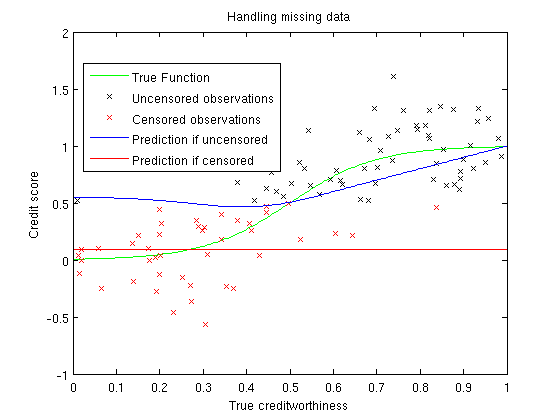
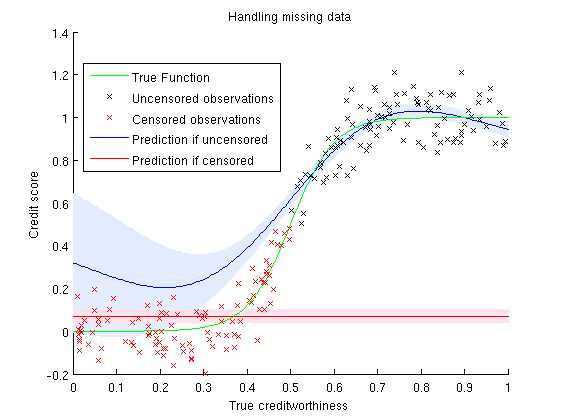
Polished demo

diff --git a/source/missing_data_demo.m b/source/missing_data_demo.m
@@ -18,20 +18,20 @@ addpath(genpath('gpml'))
 
 
 % True function:
-truefunc = @(x) 1./(1+exp(-(x - 0.5).*10));
+truefunc = @(x) 1./(1+exp(-(x - 0.5).*20));
 censoring = @(y) y < 0.5;
-noise_variance = 0.1;
+true_noise_variance = 0.01;
 
 
 % Generate the population
-N = 100;
-x = rand(N,1);   % x has to be bounded between 0 and 1.
+N = 200;
+orig_x = rand(N,1);   % x has to be bounded between 0 and 1.
 
 % Create some data from the true model.
-y = truefunc(x) + randn(N,1) .* sqrt(noise_variance);
+y = truefunc(orig_x) + randn(N,1) .* sqrt(true_noise_variance);
 censored_ixs = censoring(y);
-censored_scores = y;
-censored_scores(censored_ixs) = NaN;
+obs_x = orig_x;
+obs_x(censored_ixs) = NaN;
 
 n_xstar = 200;
 xstar = linspace( 0, 1, n_xstar )';
@@ -40,7 +40,8 @@ xstar_censored = NaN(size(xstar));
 
 % Set up the conditional model.
 % kernel parameters
-omega = 10;  rho = 0.2;  sf2 = 1;
+omega = 1;  rho = 0.1;  sf2 = 1;
+noise_variance = 0.1;
 
 covfunc = @covCond;
 likfunc = @likGauss;
@@ -50,22 +51,39 @@ hyp_cond.lik = log(noise_variance);
 hyp_cond.cov = [log(omega);log(rho);log(sf2)];
 hyp_cond.mean = mean(y);
 
-%hyp = minimize(hyp, @gp, -100, @infExact, [], covfunc, likfunc, X1, Y1(:, n));
+hyp_opt = minimize(hyp_cond, @gp, -100, @infExact, meanfunc, covfunc, likfunc, obs_x, y);
+
+estimated_kernel_params = exp(hyp_opt.cov)
+estimated_noise = exp(hyp_opt.lik)
+estimated_mean = exp(hyp_opt.mean)
+
 
 % Predict uncensored
-[m s2] = gp(hyp_cond, @infExact, meanfunc, covfunc, likfunc, censored_scores, y, xstar);
+[m, s2] = gp(hyp_opt, @infExact, meanfunc, covfunc, likfunc, obs_x, y, xstar);
 % Predict censored
-[m_c s2_c] = gp(hyp_cond, @infExact, meanfunc, covfunc, likfunc, censored_scores, y, xstar_censored);
+[m_c s2_c] = gp(hyp_opt, @infExact, meanfunc, covfunc, likfunc, obs_x, y, xstar_censored);
 
 
+% Plot results.
+light_blue = [227 237 255]./255;
+light_red = [255 227 237]./255;
+opacity = 1;
+figure(1); clf; 
 
-figure(1);
-plot( xstar, truefunc(xstar), 'g-' ); hold on;
-plot( x, y, 'kx');
-plot( x(censored_ixs), y(censored_ixs), 'rx');
-plot( xstar, m, 'b-' );
-plot( xstar, m_c, 'r-' );
-legend({'True Function', 'Uncensored observations', 'Censored observations', 'Prediction if uncensored', 'Prediction if censored'}, ...
+% Predictions if uncensored
+jbfill( xstar', m' + 2.*s2', m' - 2.*s2', light_blue, 'none', 1, opacity); hold on;
+h_pnc = plot( xstar, m, 'b-' ); hold on;
+
+% Predictions if censored
+jbfill( xstar', m_c' + 2.*s2_c', m_c' - 2.*s2_c', light_red, 'none', 1, opacity); hold on;
+h_pc = plot( xstar, m_c, 'r-' ); hold on;
+
+h_tf = plot( xstar, truefunc(xstar), 'g-' ); 
+h_uo = plot( orig_x, y, 'kx');
+h_co = plot( orig_x(censored_ixs), y(censored_ixs), 'rx');
+
+
+legend([h_tf h_uo h_co h_pnc h_pc], {'True Function', 'Uncensored observations', 'Censored observations', 'Prediction if uncensored', 'Prediction if censored'}, ...
     'Location', 'Best');
 set(gcf, 'color', 'white');
 xlabel('True creditworthiness');

diff --git a/source/utils/jbfill.m b/source/utils/jbfill.m
@@ -1,0 +1,44 @@
+function[fillhandle,msg]=jbfill(xpoints,upper,lower,color,edge,add,transparency)
+%USAGE: [fillhandle,msg]=jbfill(xpoints,upper,lower,color,edge,add,transparency)
+%This function will fill a region with a color between the two vectors provided
+%using the Matlab fill command.
+%
+%fillhandle is the returned handle to the filled region in the plot.
+%xpoints= The horizontal data points (ie frequencies). Note length(Upper)
+%         must equal Length(lower)and must equal length(xpoints)!
+%upper = the upper curve values (data can be less than lower)
+%lower = the lower curve values (data can be more than upper)
+%color = the color of the filled area 
+%edge  = the color around the edge of the filled area
+%add   = a flag to add to the current plot or make a new one.
+%transparency is a value ranging from 1 for opaque to 0 for invisible for
+%the filled color only.
+%
+%John A. Bockstege November 2006;
+%Example:
+%     a=rand(1,20);%Vector of random data
+%     b=a+2*rand(1,20);%2nd vector of data points;
+%     x=1:20;%horizontal vector
+%     [ph,msg]=jbfill(x,a,b,rand(1,3),rand(1,3),0,rand(1,1))
+%     grid on
+%     legend('Datr')
+if nargin<7;transparency=.5;end %default is to have a transparency of .5
+if nargin<6;add=1;end     %default is to add to current plot
+if nargin<5;edge='k';end  %dfault edge color is black
+if nargin<4;color='b';end %default color is blue
+
+if length(upper)==length(lower) && length(lower)==length(xpoints)
+    msg='';
+    filled=[upper,fliplr(lower)];
+    xpoints=[xpoints,fliplr(xpoints)];
+    if add
+        hold on
+    end
+    fillhandle=fill(xpoints,filled,color);%plot the data
+    set(fillhandle,'EdgeColor',edge,'FaceAlpha',transparency,'EdgeAlpha',transparency);%set edge color
+    if add
+        hold off
+    end
+else
+    msg='Error: Must use the same number of points in each vector';
+end

diff --git a/source/cond_prior_draw.m b/source/cond_prior_draw.m
@@ -1,0 +1,34 @@
+% Draws a function from the conditional kernel prior.
+%
+% David Duvenaud
+% Sept 2013.
+
+
+% Fix the seed of the random generators.
+seed = 0;
+randn('state',seed);
+rand('state',seed);
+
+addpath(genpath('gpml'))
+
+
+
+% Generate the population
+N = 200;
+x = linspace(0,1,N)';   % x has to be bounded between 0 and 1.
+censored_ixs = 1:N < floor(N/2);
+x(censored_ixs) = NaN;
+
+% kernel parameters
+omega = 10;  rho = 0.2;  sf2 = 1;
+hyp_cond.cov = [log(omega);log(rho);log(sf2)];
+noise_variance = 0.1;
+
+% Sample a function.
+K = covCond(hyp_cond.cov, x, x);
+%imagesc(K);
+
+f = mvnrnd( zeros(N,1), K);
+
+plot(x(~censored_ixs), f(~censored_ixs), 'b-');
+
